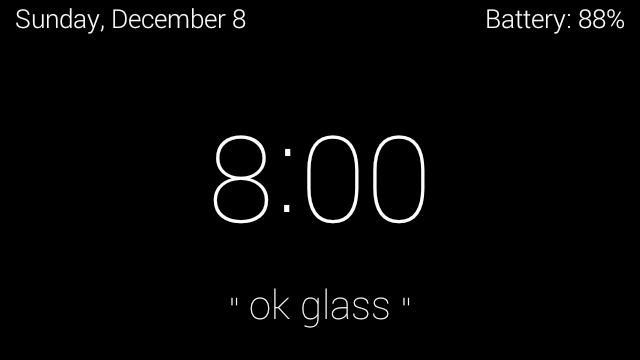
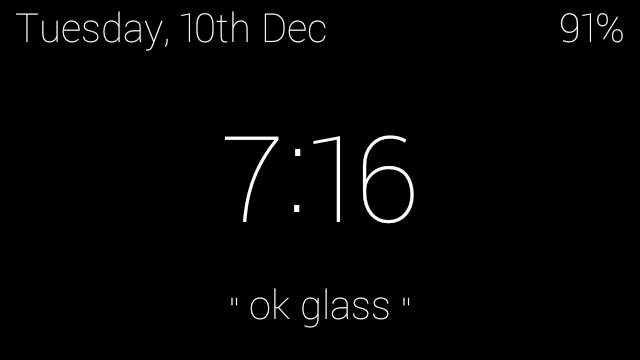
Make text larger and easier to see weekday and day of month

Changed region(s): [[0.3125, 0.3667, 0.6875, 0.6417], [0.0312, 0.0306, 0.5, 0.1222], [0.75, 0.0, 0.9688, 0.1222]]

diff --git a/ScreenOnOverlay/src/main/java/com/masterbaron/screenonoverlay/OverlayService.java b/ScreenOnOverlay/src/main/java/com/masterbaron/screenonoverlay/OverlayService.java
@@ -18,7 +18,9 @@ import android.view.animation.Animation;
 import android.view.animation.AnimationUtils;
 import android.widget.TextView;
 
+import java.text.SimpleDateFormat;
 import java.util.Calendar;
+import java.util.Date;
 
 /**
  * Created by Van Etten on 12/8/13.
@@ -87,9 +89,30 @@ public class OverlayService extends Service {
         };
     }
 
+    public String getDateSuffix( int day) {
+        switch (day) {
+            case 1: case 21: case 31:
+                return ("st");
+
+            case 2: case 22:
+                return ("nd");
+
+            case 3: case 23:
+                return ("rd");
+
+            default:
+                return ("th");
+        }
+    }
+
     private void showThenHide(Context context) {
         Calendar cal = Calendar.getInstance();
-        dateView.setText(DateUtils.formatDateTime(context, cal.getTimeInMillis(), DateUtils.FORMAT_SHOW_WEEKDAY | DateUtils.FORMAT_SHOW_DATE));
+        //dateView.setText(DateUtils.formatDateTime(context, cal.getTimeInMillis(), DateUtils.FORMAT_SHOW_WEEKDAY | DateUtils.FORMAT_SHOW_DATE));
+        final int date = cal.get(Calendar.DATE) % 10;
+        StringBuilder dateText = new StringBuilder(new SimpleDateFormat("EEEE").format(new Date(cal.getTimeInMillis())));
+        dateText.append(", ").append(new SimpleDateFormat("dd").format(new Date(cal.getTimeInMillis()))).append(getDateSuffix(date));
+        dateText.append(" ").append(new SimpleDateFormat("MMM").format(new Date(cal.getTimeInMillis())));
+        dateView.setText(dateText.toString());
 
         Intent batteryIntent = context.getApplicationContext().registerReceiver(null, new IntentFilter(Intent.ACTION_BATTERY_CHANGED));
         double level = batteryIntent.getIntExtra("level", -1);
